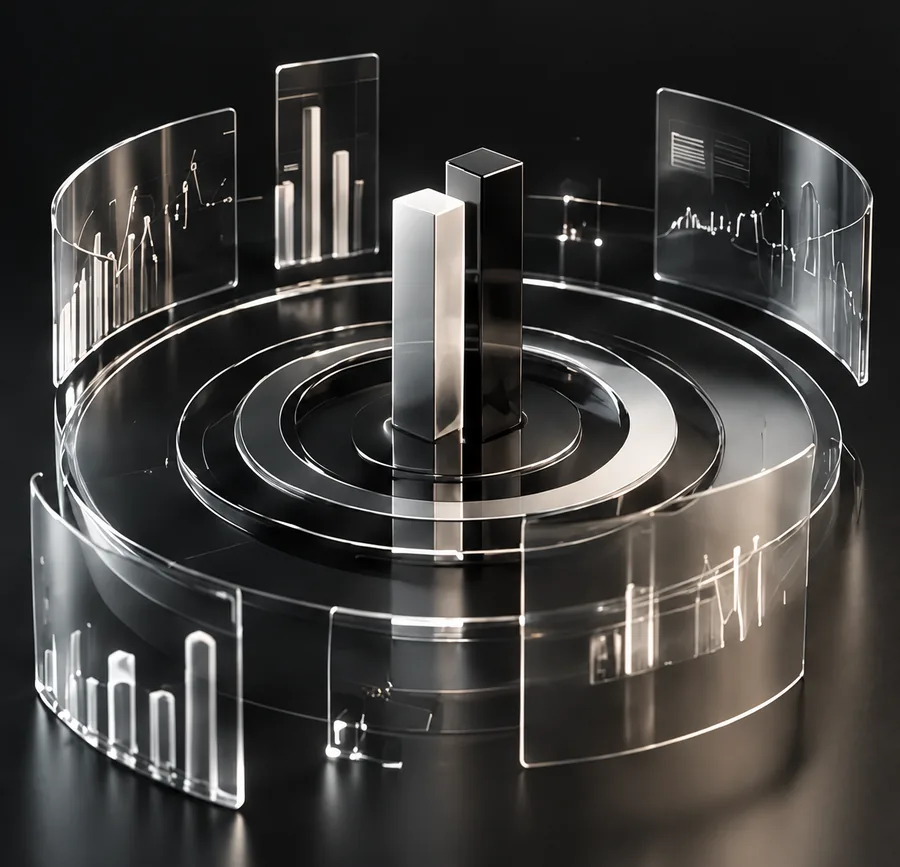
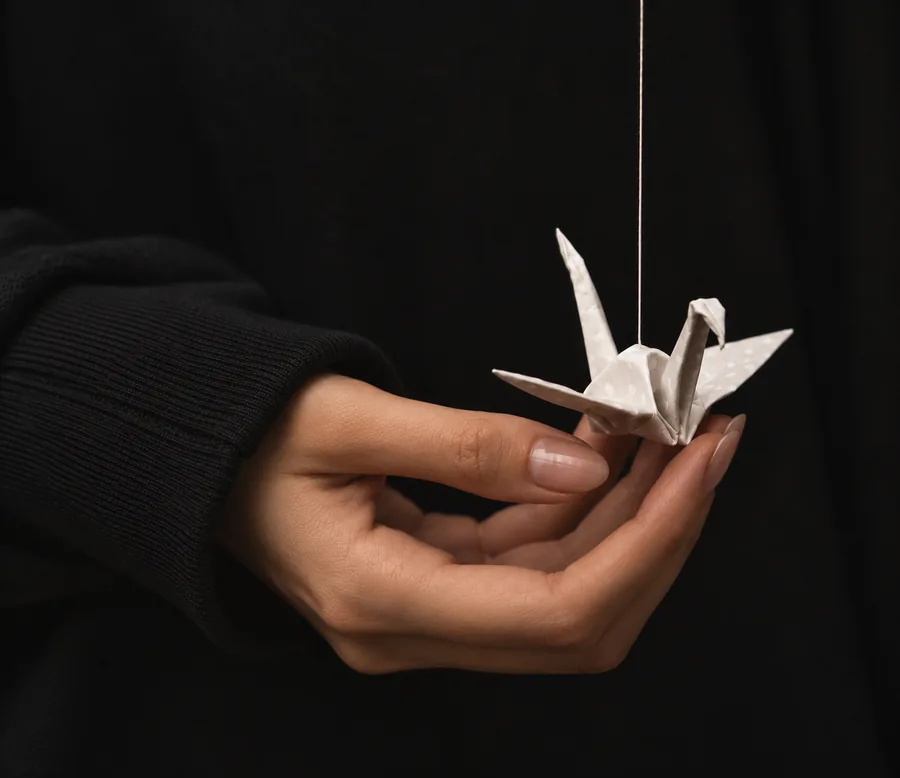
Carrousel : images « Marchés publics » et « Performance et pilotage » ; contact reformulé
Les dix expertises sont désormais illustrées par la nouvelle série. Dans le
contact : titre « Discutons de vos enjeux. / Planifions un premier échange. »,
champ « Votre besoin ou votre projet, en quelques mots », retrait du lien
courriel sous le bouton. Traductions anglaises alignées.

diff --git a/index.html b/index.html
@@ -165,7 +165,7 @@
             </div>
           </article>
           <article class="caro-card" data-slide="8" aria-roledescription="diapositive" aria-label="9 sur 10" data-i18n-attr="aria-roledescription=slide_role;aria-label=slide_9">
-            <div class="caro-visual" aria-hidden="true"><svg viewBox="0 0 120 120" fill="none" stroke="currentColor" stroke-width="1.2" stroke-linecap="round" stroke-linejoin="round"><path d="M22 44 60 24l38 20z"/><path d="M28 44v38M44 44v38M60 44v38M76 44v38M92 44v38"/><path d="M20 82h80M24 90h72"/></svg></div>
+            <div class="caro-visual has-img" aria-hidden="true"><img src="assets/expertises/marches.webp" alt=""><svg viewBox="0 0 120 120" fill="none" stroke="currentColor" stroke-width="1.2" stroke-linecap="round" stroke-linejoin="round"><path d="M22 44 60 24l38 20z"/><path d="M28 44v38M44 44v38M60 44v38M76 44v38M92 44v38"/><path d="M20 82h80M24 90h72"/></svg></div>
             <div class="caro-body">
               <span class="caro-tag small"><img src="assets/logo-blanc.png" alt="" class="brand-mark">Expertise 09 / 10</span>
               <h3 data-i18n="exp_9">Marchés publics</h3>
@@ -174,7 +174,7 @@
             </div>
           </article>
           <article class="caro-card" data-slide="9" aria-roledescription="diapositive" aria-label="10 sur 10" data-i18n-attr="aria-roledescription=slide_role;aria-label=slide_10">
-            <div class="caro-visual has-img" aria-hidden="true"><img src="assets/expertises/performance.webp" alt=""><svg viewBox="0 0 120 120" fill="none" stroke="currentColor" stroke-width="1.2" stroke-linecap="round" stroke-linejoin="round"><path d="M22 78a38 38 0 0 1 76 0"/><path d="M34 78a26 26 0 0 1 52 0" stroke-dasharray="3 4"/><path d="M60 78 82 50"/><circle cx="60" cy="78" r="3" fill="currentColor" stroke="none"/><path d="M22 86h76"/></svg></div>
+            <div class="caro-visual has-img" aria-hidden="true"><img src="assets/expertises/performance.webp?v=2" alt=""><svg viewBox="0 0 120 120" fill="none" stroke="currentColor" stroke-width="1.2" stroke-linecap="round" stroke-linejoin="round"><path d="M22 78a38 38 0 0 1 76 0"/><path d="M34 78a26 26 0 0 1 52 0" stroke-dasharray="3 4"/><path d="M60 78 82 50"/><circle cx="60" cy="78" r="3" fill="currentColor" stroke="none"/><path d="M22 86h76"/></svg></div>
             <div class="caro-body">
               <span class="caro-tag small"><img src="assets/logo-blanc.png" alt="" class="brand-mark">Expertise 10 / 10</span>
               <h3 data-i18n="exp_10">Performance et pilotage</h3>
@@ -203,15 +203,14 @@
 
     <section class="panel contact" id="contact">
       <div class="login">
-        <h2 class="h-lead" data-i18n="contact_title">Un problème à régler ?<br>Parlons-en cette semaine.</h2>
+        <h2 class="h-lead" data-i18n="contact_title">Discutons de vos enjeux.<br>Planifions un premier échange.</h2>
         <form class="contact-form" action="mailto:info@lounici.ca" method="post" enctype="text/plain">
           <label class="field"><span class="small" data-i18n="f_name">Nom</span><input type="text" name="nom" required></label>
           <label class="field"><span class="small" data-i18n="f_email">Courriel</span><input type="email" name="courriel" required></label>
           <label class="field"><span class="small" data-i18n="f_company">Entreprise</span><input type="text" name="entreprise"></label>
-          <label class="field"><span class="small" data-i18n="f_problem">Le problème à régler, en quelques mots</span><textarea name="message" rows="3"></textarea></label>
+          <label class="field"><span class="small" data-i18n="f_problem">Votre besoin ou votre projet, en quelques mots</span><textarea name="message" rows="3"></textarea></label>
           <div class="form-foot">
             <button type="submit" class="btn btn-black" data-i18n="f_send">Envoyer</button>
-            <a class="small" href="mailto:info@lounici.ca">info@lounici.ca</a>
           </div>
         </form>
       </div>

diff --git a/script.js b/script.js
@@ -52,11 +52,11 @@
       "about_p1": "I turn ambitious business visions into clear, actionable strategies designed to deliver measurable results.",
       "about_p2": "By understanding each organization’s goals, operations and challenges, I identify the most effective path forward, aligning people, processes and technology to accelerate growth.",
       "about_p3": "My approach bridges strategic vision and operational execution, ensuring that every decision, initiative and resource contributes to a greater objective.",
-      "contact_title": "A problem to solve?<br>Let’s talk this week.",
+      "contact_title": "Let’s discuss your priorities.<br>Let’s plan a first conversation.",
       "f_name": "Name",
       "f_email": "Email",
       "f_company": "Company",
-      "f_problem": "The problem to solve, in a few words",
+      "f_problem": "Your need or project, in a few words",
       "f_send": "Send",
       "foot_top": "Back to top ↑",
       "close": "Close",
